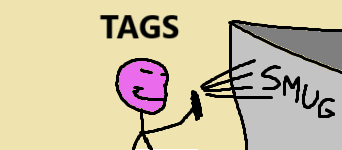
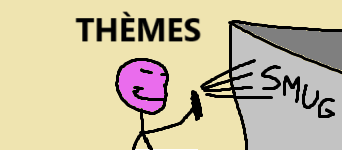
Comics: Tags

Changed region(s): [[0.2047, 0.08, 0.5848, 0.2933]]

diff --git a/actions/tags.act.php b/actions/tags.act.php
@@ -34,10 +34,14 @@ function tags_get( int $tag_id ) : ?array
   if(!database_row_exists('tags', $tag_id))
     return null;
 
+  // Get the user's current language
+  $lang = string_change_case(user_get_language(), 'lowercase');
+
   // Fetch the tag's data
   $tag_data = query(" SELECT    tags.id             AS 't_id'         ,
                                 tags.sorting_order  AS 't_sort'       ,
                                 tags.name           AS 't_name'       ,
+                                tags.banner_$lang   AS 't_banner'     ,
                                 tags.banner_en      AS 't_banner_en'  ,
                                 tags.banner_fr      AS 't_banner_fr'  ,
                                 tags.title_en       AS 't_title_en'   ,
@@ -58,6 +62,13 @@ function tags_get( int $tag_id ) : ?array
   $data['title_fr']   = sanitize_output($tag_data['t_title_fr']);
   $data['desc_en']    = sanitize_output($tag_data['t_desc_en']);
   $data['desc_fr']    = sanitize_output($tag_data['t_desc_fr']);
+
+  // Get the correct banner images
+  $root = root_path();
+  if($tag_data['t_banner'] && file_exists($root."img/banners/comics/tags/".$tag_data['t_banner']))
+    $data['banner'] = "img/banners/comics/tags/".$tag_data['t_banner'];
+  else
+    $data['banner']= "img/templates/tag_".$lang;
 
   // Return the prepared data
   return $data;
@@ -82,6 +93,7 @@ function tags_list() : array
   $tags = query(" SELECT    tags.id            AS 't_id'        ,
                             tags.sorting_order AS 't_sort'      ,
                             tags.name          AS 't_name'      ,
+                            tags.banner_$lang  AS 't_banner'    ,
                             tags.banner_en     AS 't_banner_en' ,
                             tags.banner_fr     AS 't_banner_fr' ,
                             tags.title_$lang   AS 't_title'     ,
@@ -101,6 +113,13 @@ function tags_list() : array
     $data[$i]['title']      = sanitize_output($row['t_title']);
     $data[$i]['title_en']   = sanitize_output($row['t_title_en']);
     $data[$i]['title_fr']   = sanitize_output($row['t_title_fr']);
+
+    // Get the correct banner images
+    $root = root_path();
+    if($row['t_banner'] && file_exists($root."img/banners/comics/tags/".$row['t_banner']))
+      $data[$i]['banner'] = "img/banners/comics/tags/".$row['t_banner'];
+    else
+      $data[$i]['banner']= "img/templates/tag_".$lang;
   }
 
   // Add the number of rows to the returned data

diff --git a/pages/comics.php b/pages/comics.php
@@ -58,7 +58,9 @@ $comics_list = comics_list( sort_by:    'date'  ,
       <img src="<?=$path?>img/banners/comics/random_<?=$lang?>.png" alt="<?=__('comics_nav_random')?>" title="<?=__('comics_nav_random')?>">
     </div>
     <div class="flex smallspaced_left">
-      <img src="<?=$path?>img/banners/comics/tags_<?=$lang?>.png" alt="<?=__('comics_list_tags')?>" title="<?=__('comics_nav_next')?>">
+      <a href="<?=$path?>pages/comics_tags">
+        <img src="<?=$path?>img/banners/comics/tags_<?=$lang?>.png" alt="<?=__('comics_list_tags')?>" title="<?=__('comics_nav_next')?>">
+      </a>
     </div>
   </div>
 